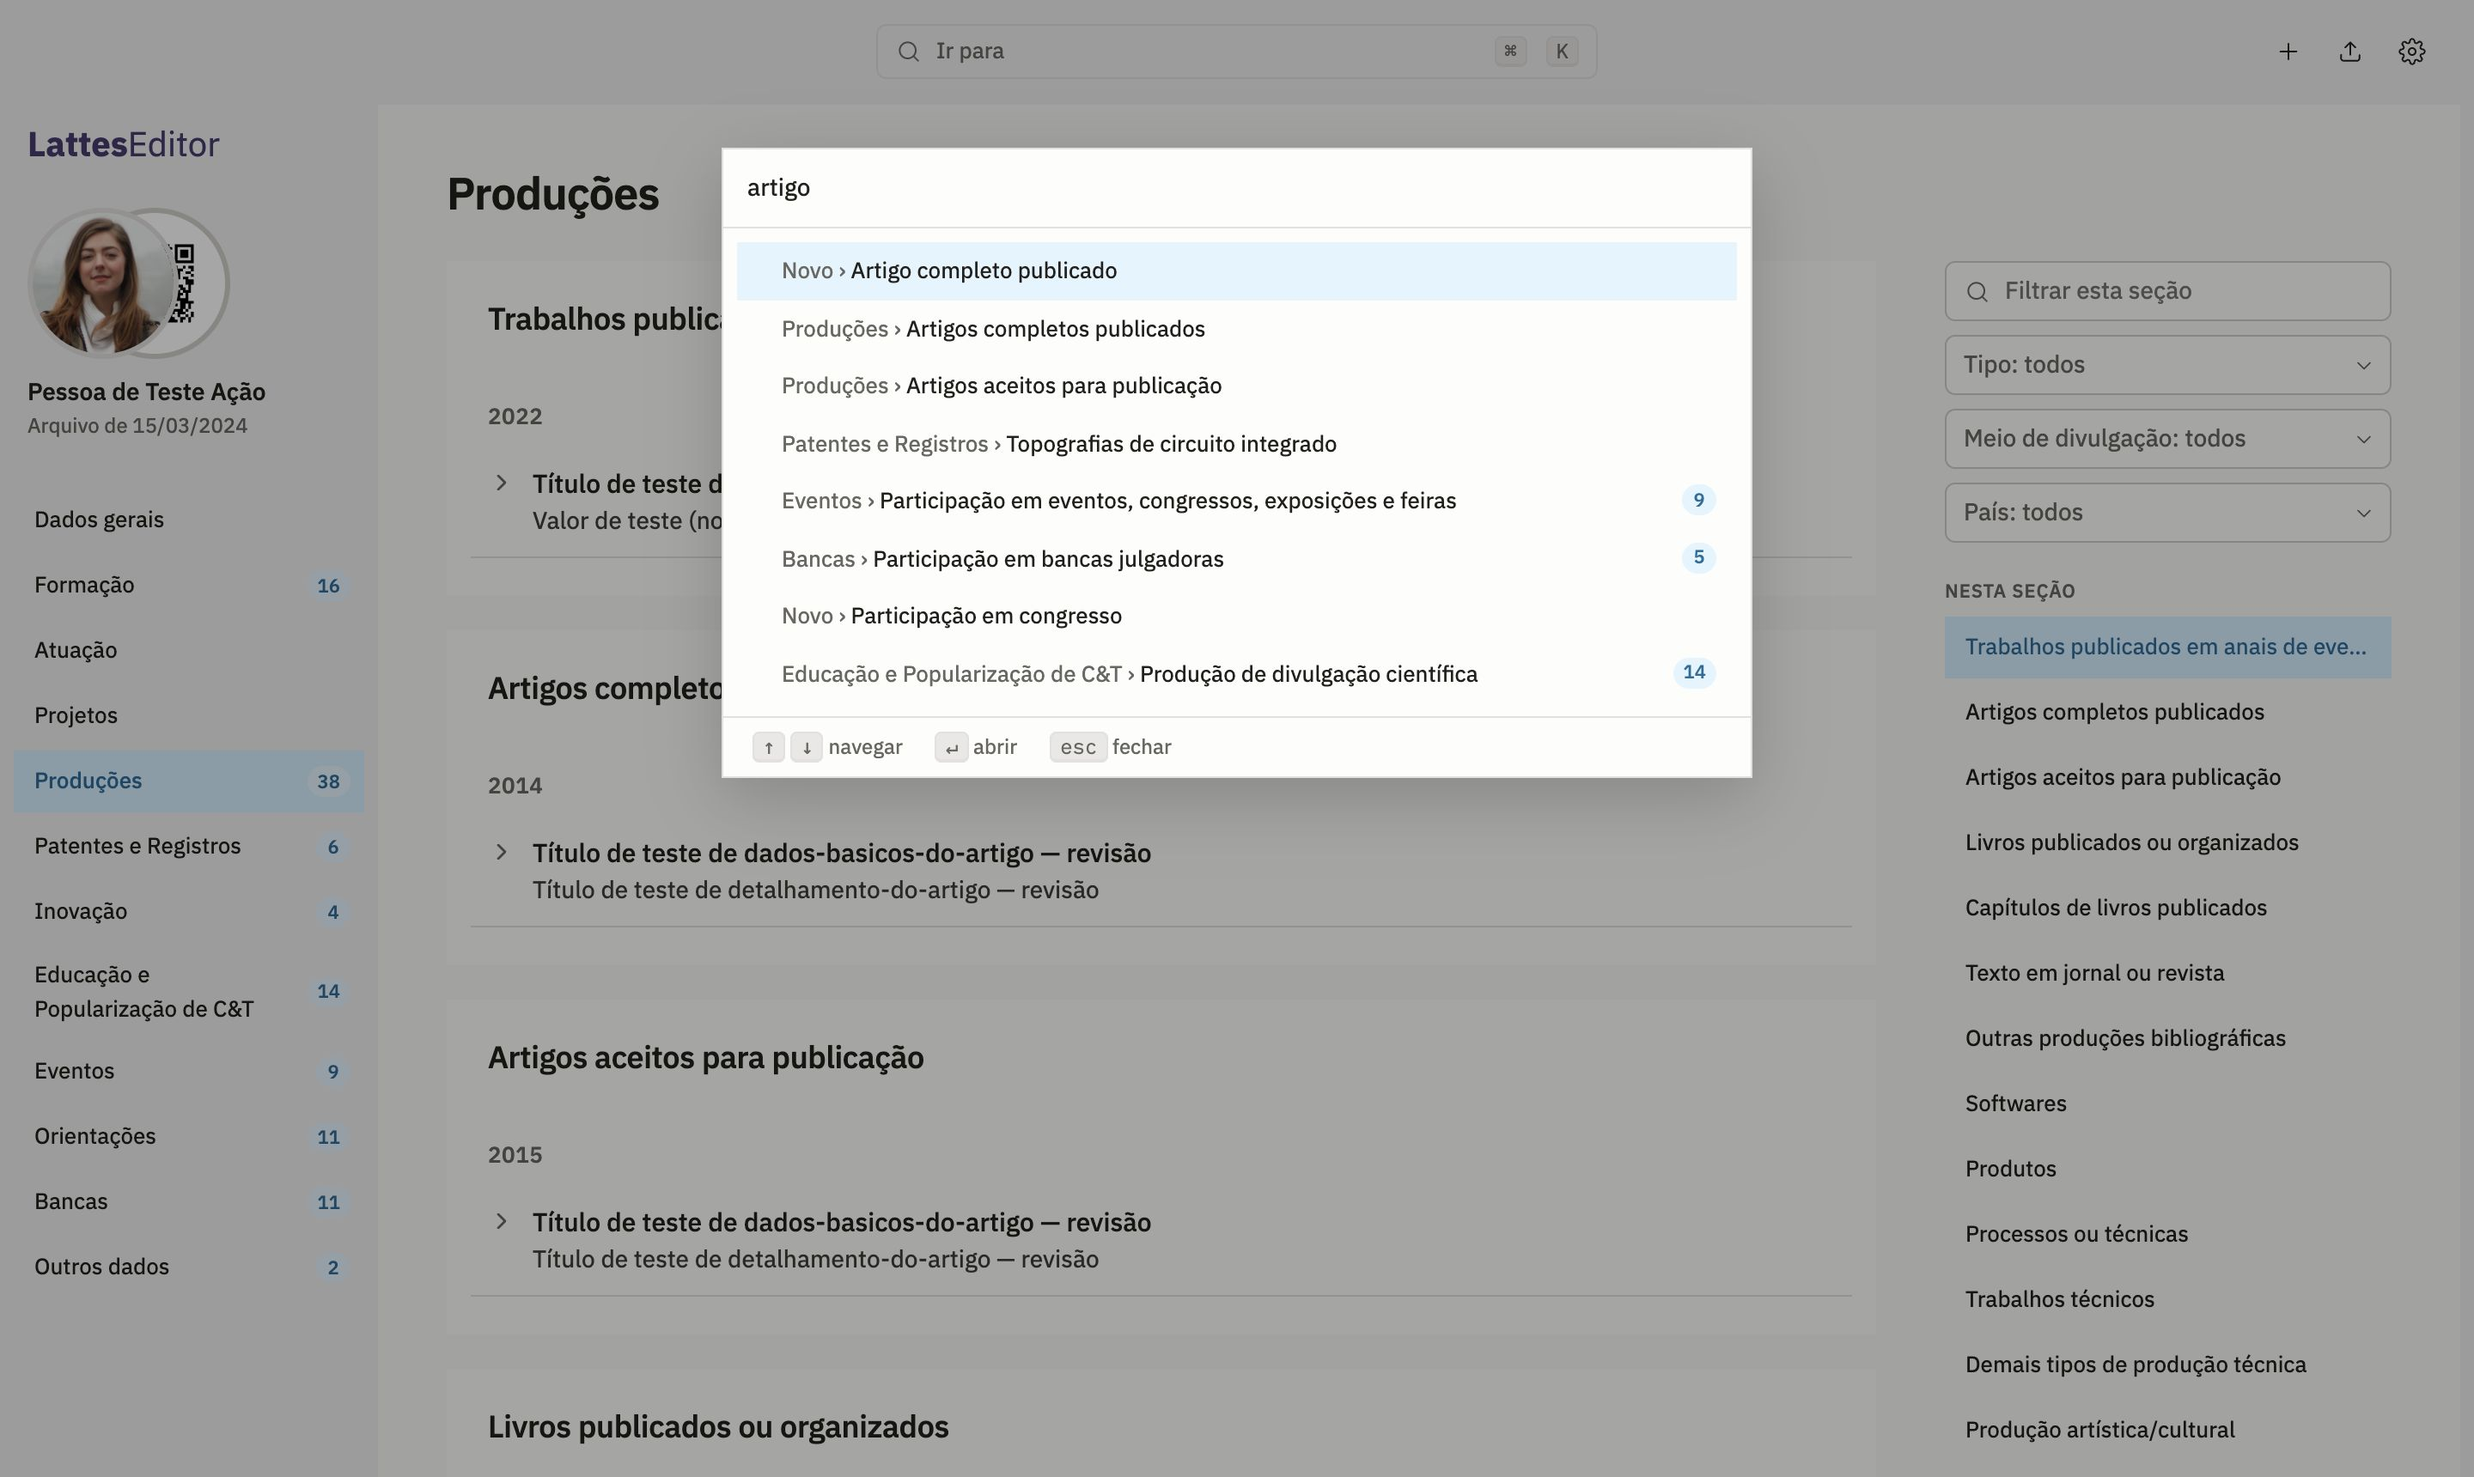
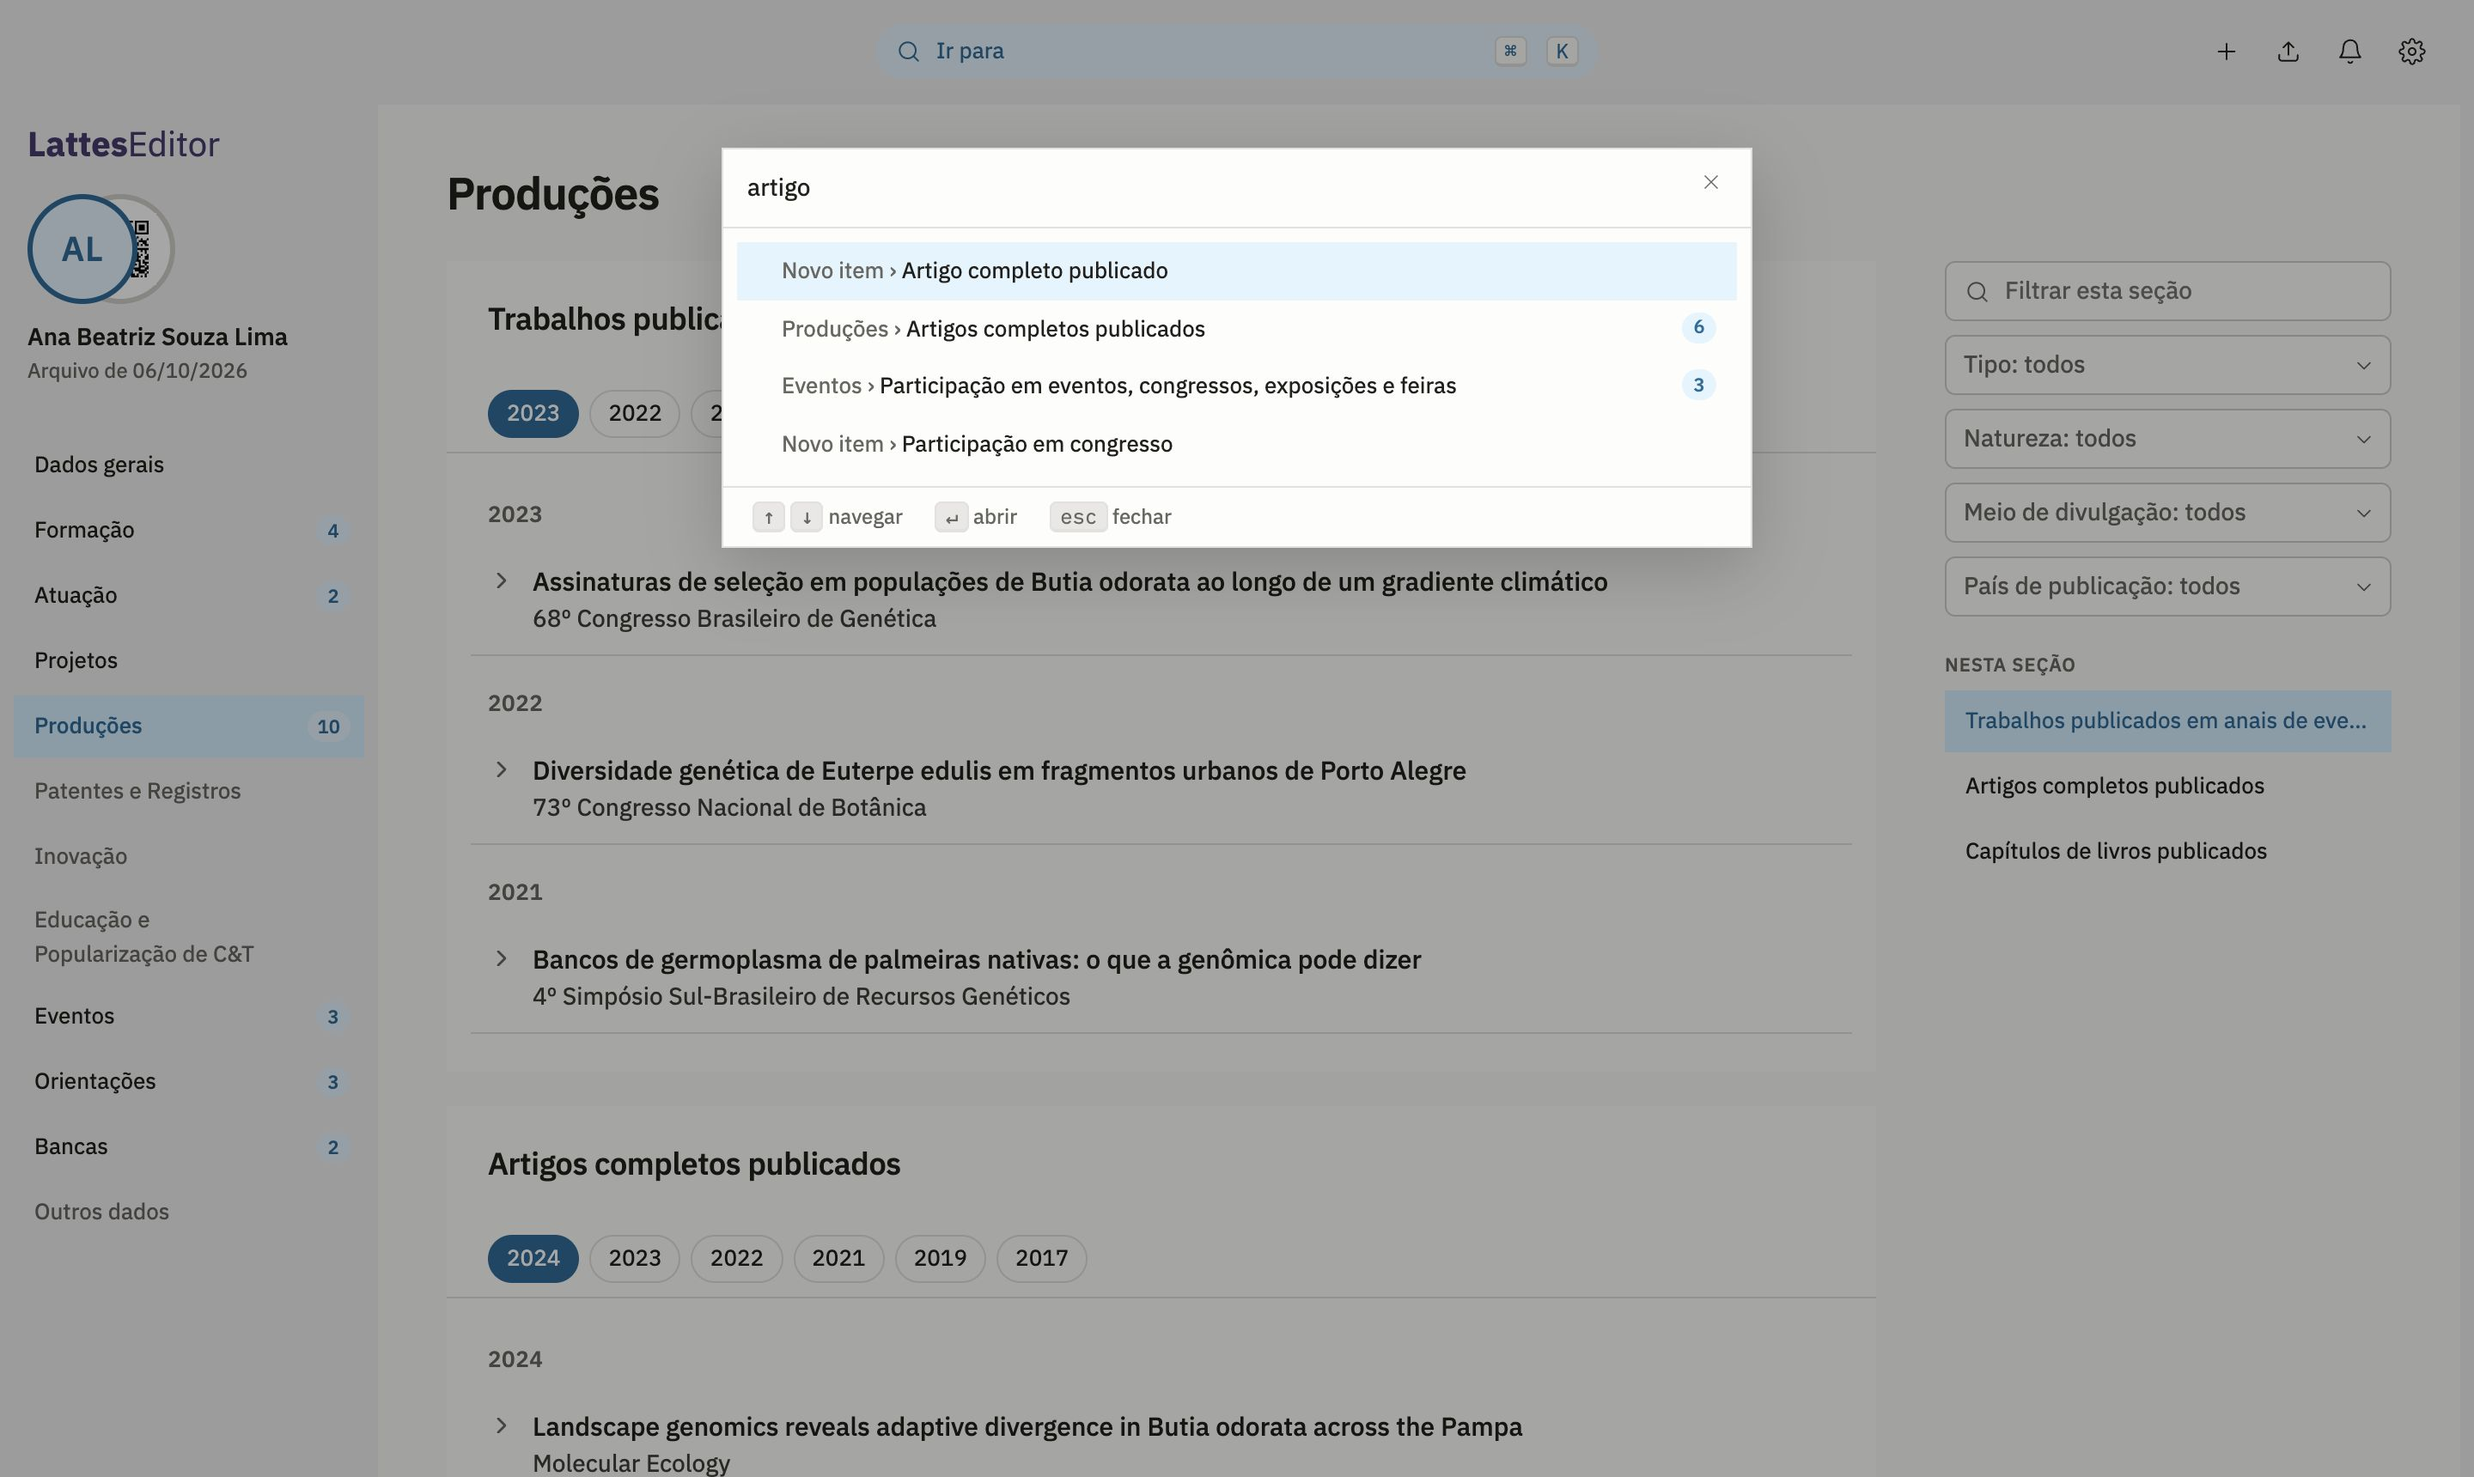
docs: imagens do README e da página do projeto com o currículo de demonstração
As capturas (pnpm capture:screenshots) passam a abrir o fixtures/demo.xml
em vez do synthetic_full.xml: a página do projeto (site/img/editor-*.jpg)
e o README (docs/img/) mostram a pesquisadora fictícia, com títulos,
eventos e números críveis, em vez de "Pessoa de Teste" e "Valor de teste".

Refs: #68

diff --git a/scripts/capture-screenshots.ts b/scripts/capture-screenshots.ts
@@ -1,5 +1,6 @@
-// Capturas do editor para o README, sempre com o currículo sintético
-// (fixtures/synthetic_full.xml, "Pessoa de Teste A"), nunca com um real.
+// Capturas do editor para o README e a página do projeto, sempre com o
+// currículo de demonstração (fixtures/demo.xml, uma pesquisadora fictícia,
+// pnpm gen:demo), nunca com um real.
 //
 // Usa um Brave ou Chrome sem janela, com perfil temporário, falando pelo
 // protocolo de depuração (sem Playwright nem outra dependência). Cada tela
@@ -21,7 +22,7 @@ import { assertRendered, openTab, sleep, withHeadlessBrowser } from './headless.
 // vira D:\D:\a\... ao abrir o arquivo.
 const root = fileURLToPath(new URL('../', import.meta.url));
 const url = process.argv[2] ?? 'http://localhost:5173/';
-const fixture = join(root, 'fixtures/synthetic_full.xml');
+const fixture = join(root, 'fixtures/demo.xml');
 const outDir = join(root, 'docs/img');
 
 /** Uma tela: como chegar nela a partir do editor aberto. */
@@ -32,8 +33,8 @@ interface Shot {
   /** Roda na página antes da captura. */
   prepare?: string;
   /**
-   * Modo de privacidade (dados pessoais e foto mascarados). Só Dados gerais o
-   * mostra ligado; nas outras telas a foto de exemplo aparece.
+   * Modo de privacidade (dados pessoais mascarados). Só Dados gerais o mostra
+   * ligado.
    */
   privacy?: boolean;
   /** Antes de abrir o currículo (a tela inicial). */
